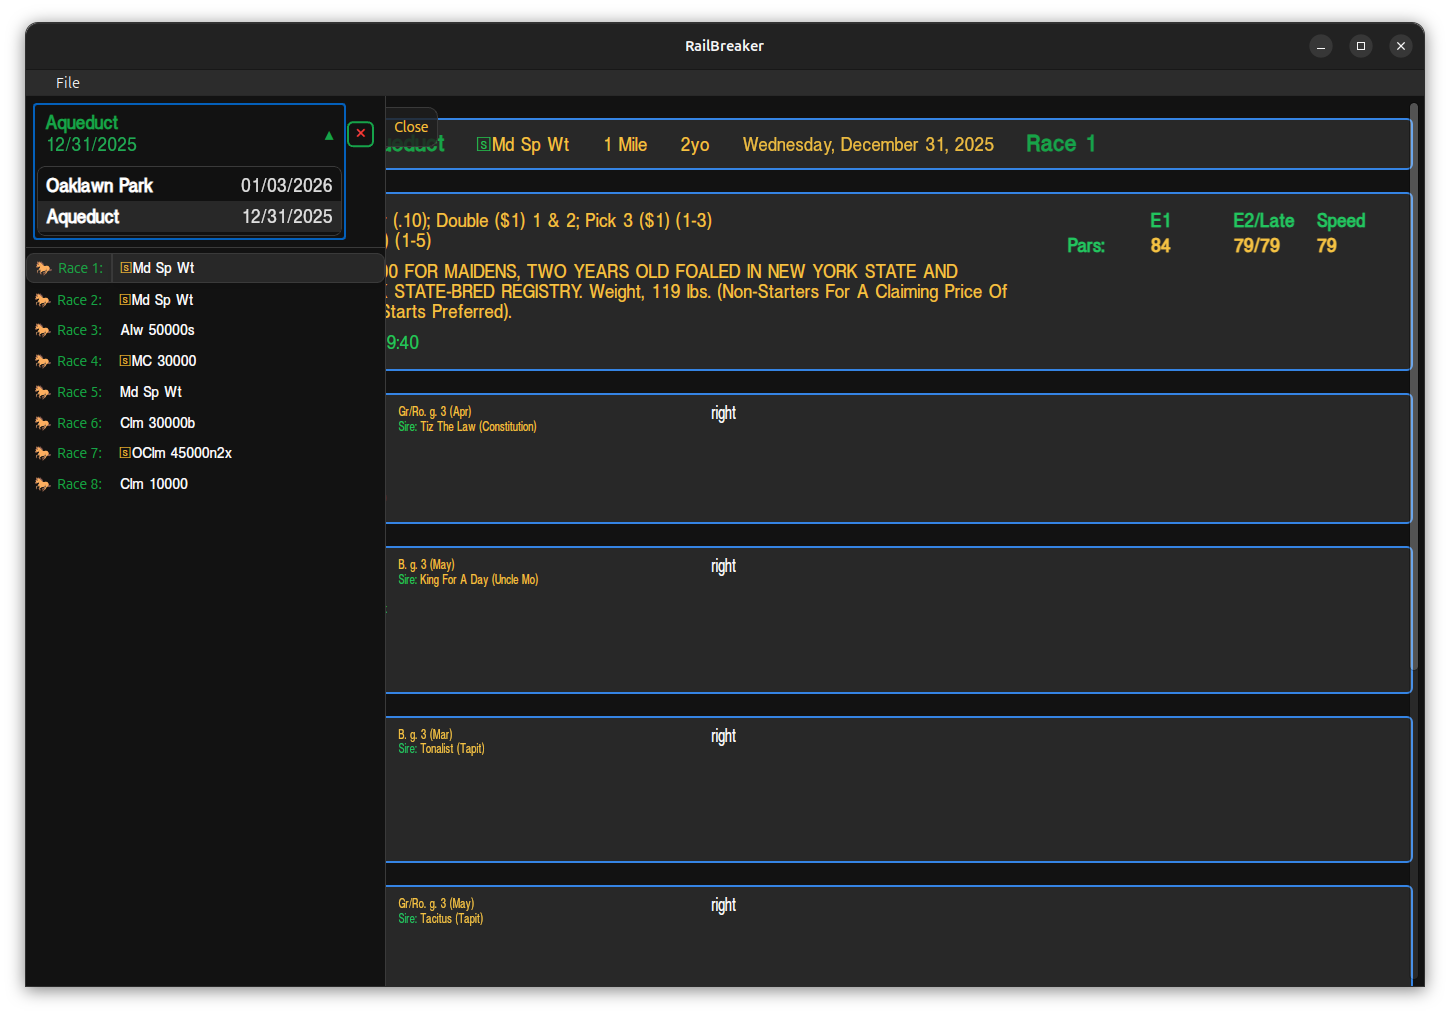
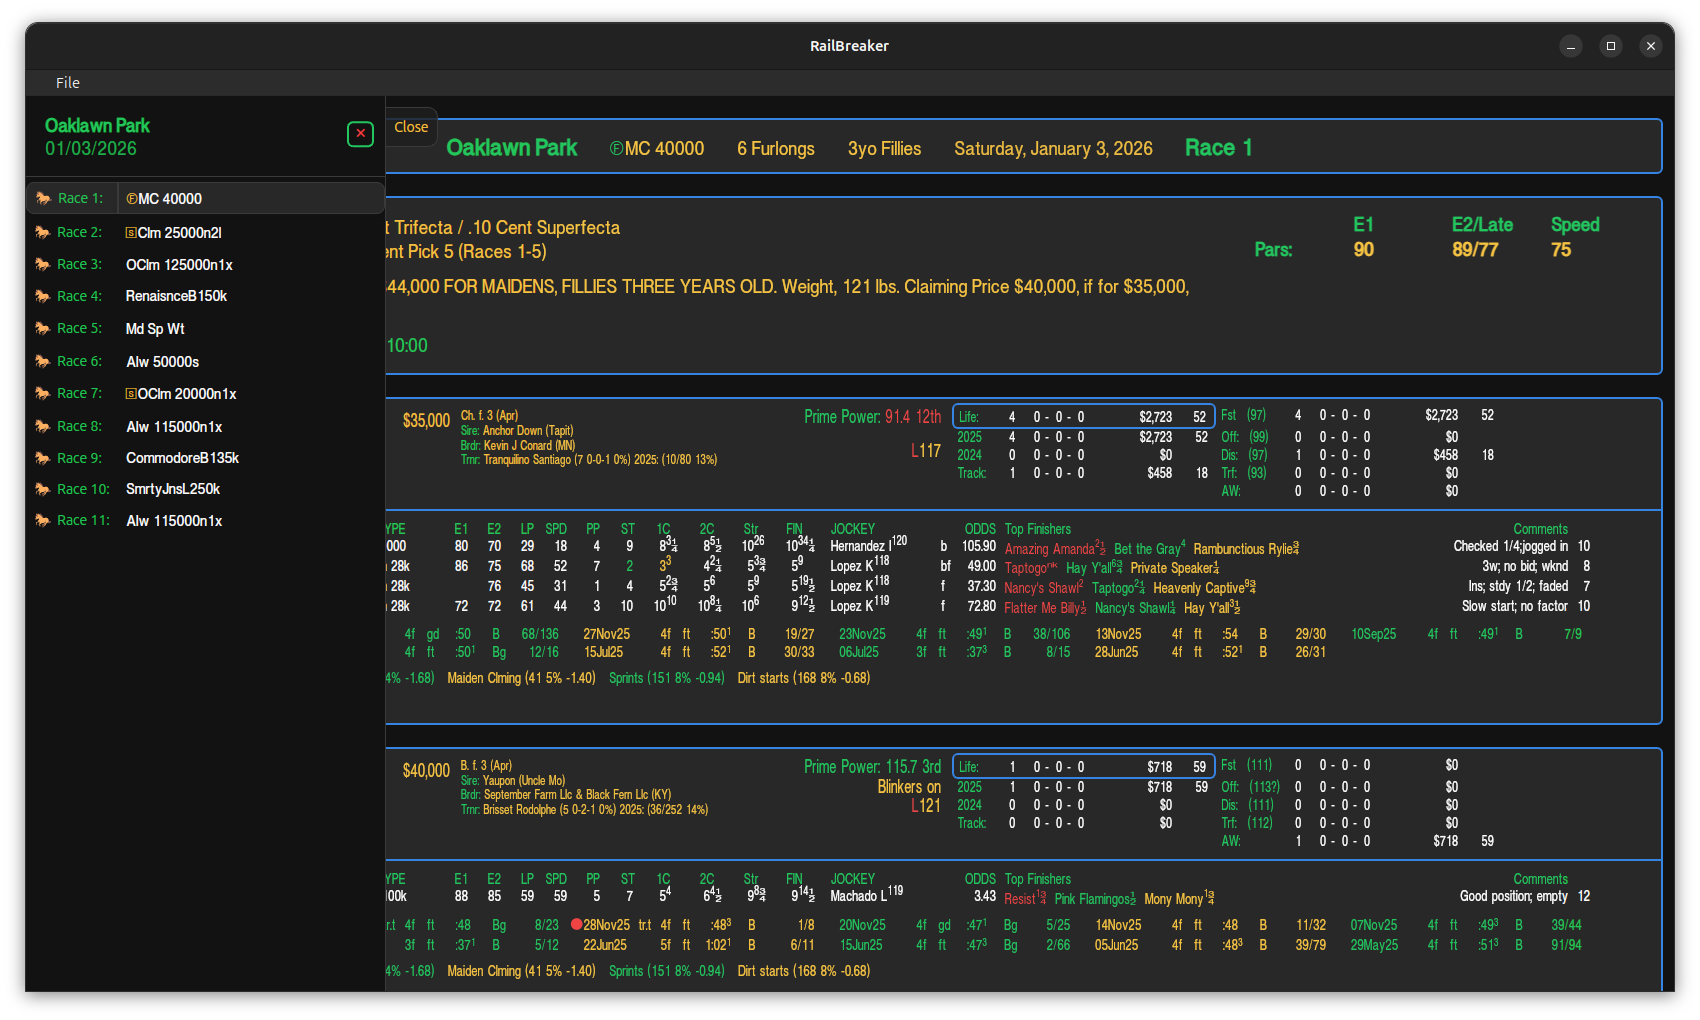
The racecard is complete. I plan to do a bunch of proofreading, but it's a great milestone to hit. :)

Changed region(s): [[0.0, 0.0611, 0.9931, 0.9773], [0.4655, 0.0305, 0.5276, 0.0611], [0.9621, 0.0305, 0.9931, 0.0611]]

diff --git a/README.md b/README.md
@@ -9,7 +9,7 @@ Please remember that the main purpose of the app is to be used while betting fro
 - Unzip and load a racecard file.
 - Load a previously unzipped racecard file.
 - Load multiple racecards. (Racecard selection is changed in the sliding-left menu.)
-- Still need to add workouts, trainer stats, and trainer jockey stats.
+- The basic racecard is complete. (I need to proofread it more against Brisnet PPs.)
 - App is responsive. It may need tweaking when I complete the racecard.
 - Added a tooltip to the comments. When clicking on a comment, you can see the extended comment if one is available. I'll be adding more helpful tooltips like this where I think they'd be useful.
 
@@ -20,10 +20,10 @@ Please remember that the main purpose of the app is to be used while betting fro
 - Useful highlighting of the racecard info.
 - Provide printouts of racecards.
 
-#### Racecard (PPs are complete. Note the tooltip to see the extended trip comments.):
+#### Racecard is Complete:
 
 ![racecard](images/racecard.png)
 
-#### Sliding Menu That Has Multiple Cards Loaded:
+#### Sliding Menu
 
 ![sliding menu](images/sliding-menu.png)
